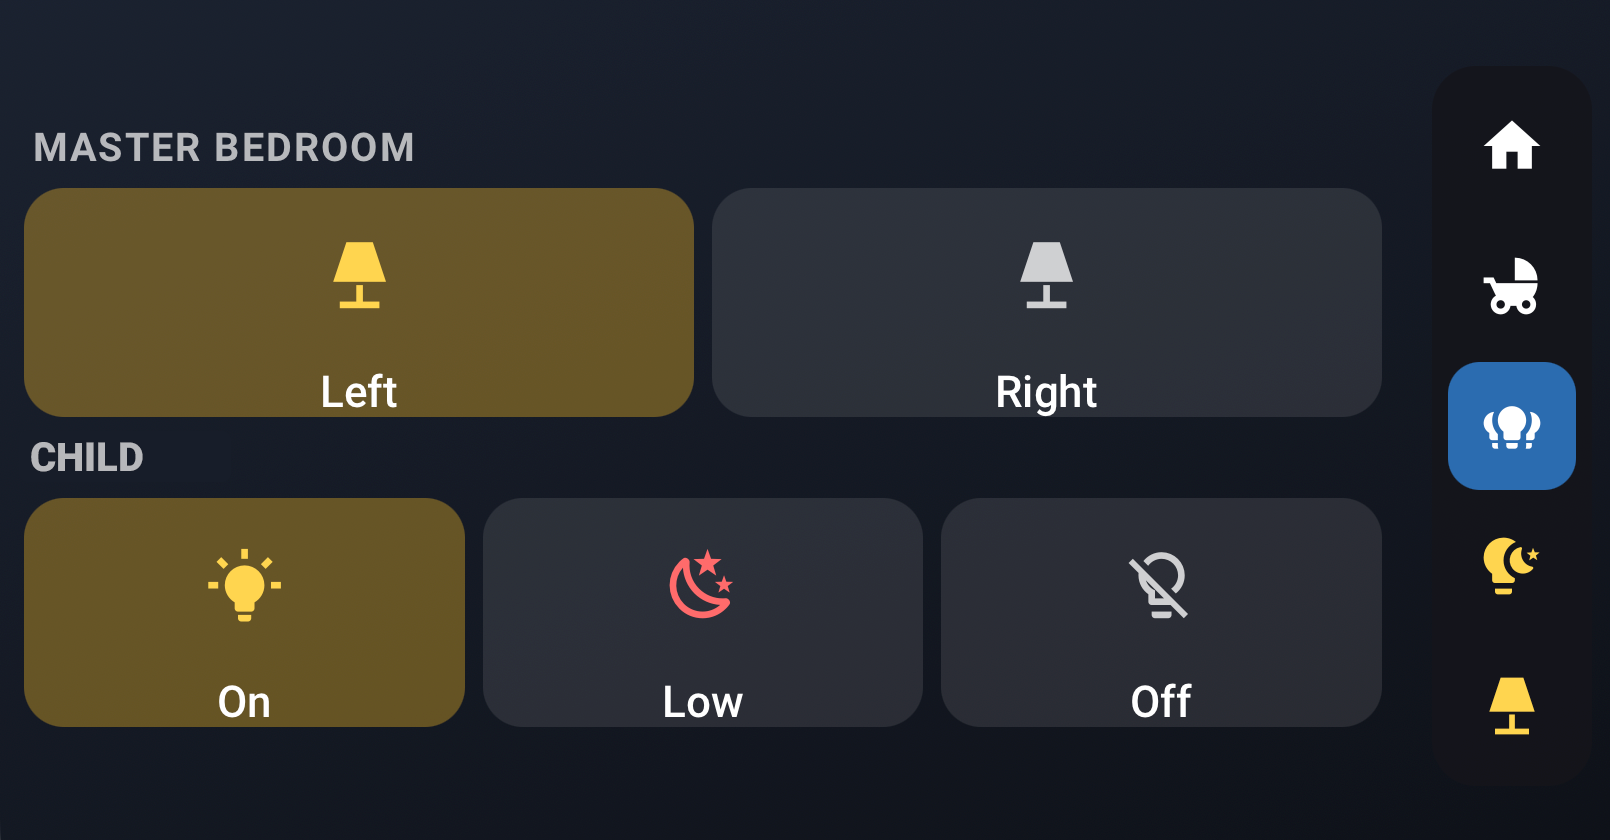
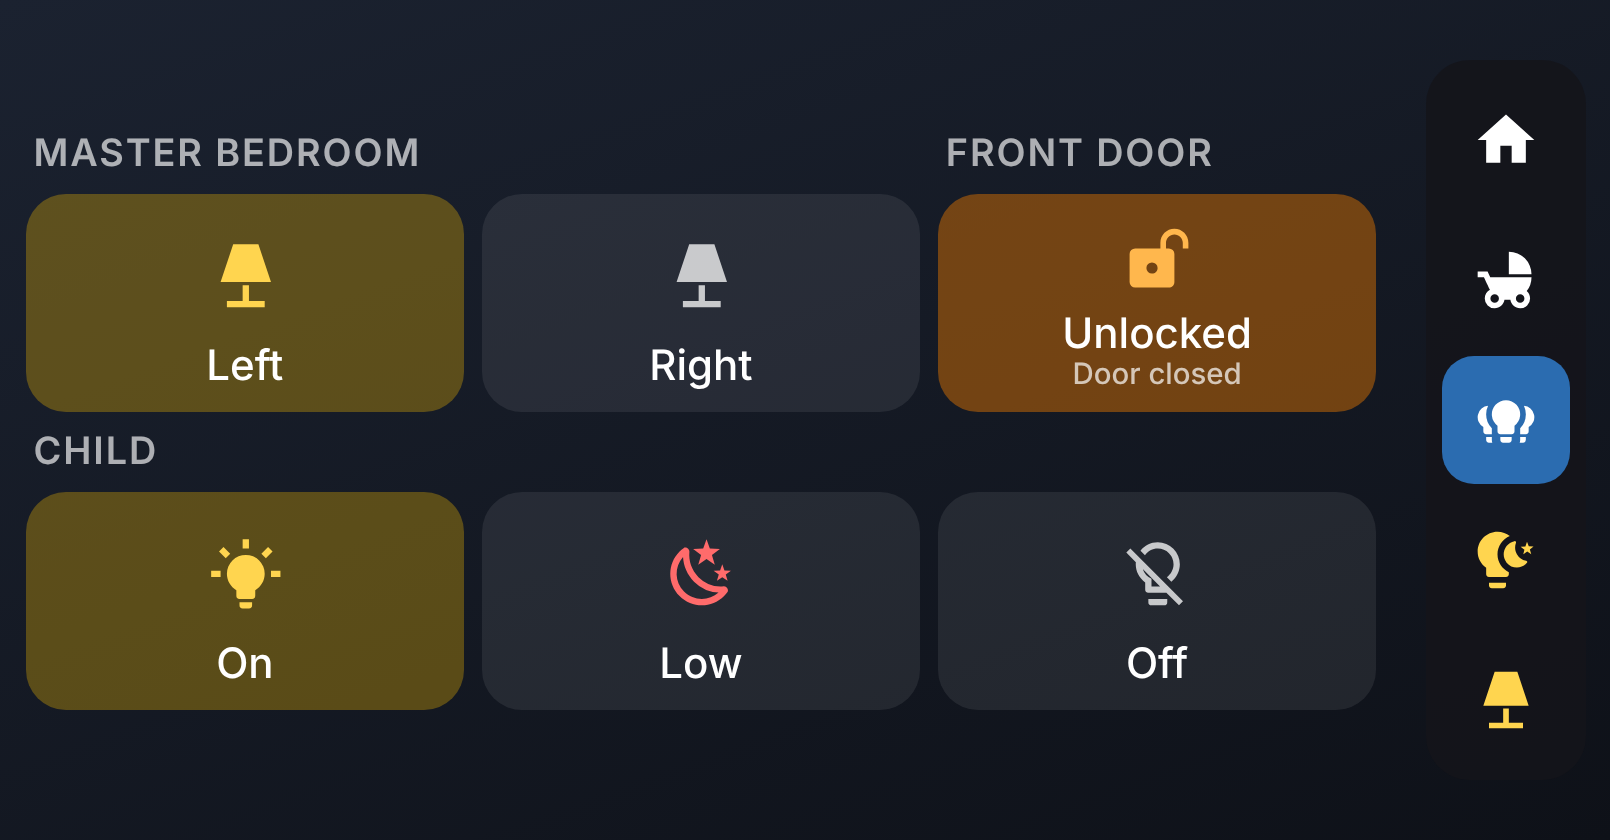
Add front door lock tile and nightly auto-lock
- Lights view: Front Door tile showing locked/unlocked and door
  open/closed; tap locks only if the door is closed, long-press unlocks
  with confirmation
- scripts.yaml: front_door_lock_if_closed
- automations.yaml: nightly auto-lock with door-open check, offline
  wait, retries and phone notifications
- README: setup, placeholders, lessons learned; new Lights mockup image

Claude-Session: https://claude.ai/code/session_01MM7d34tyjh7BsyrcMWY1rG

diff --git a/README.md b/README.md
@@ -1,14 +1,14 @@
 # Echo Show 5 Bedside Controller for Home Assistant
 
-Turn a 2nd-gen Amazon Echo Show 5 into a bedside Home Assistant display: a big clock with the weather, one-tap light controls, and a baby monitor with sound from a UniFi Protect camera. It switches to a dim red night mode when the room goes dark.
+Turn a 2nd-gen Amazon Echo Show 5 into a bedside Home Assistant display: a big clock with the weather, one-tap light controls, a front-door lock status tile, and a baby monitor with sound from a UniFi Protect camera. It switches to a dim red night mode when the room goes dark.
 
 This project was inspired by [The Stock Pot's video](https://youtu.be/6p5wvVl957c), which showed the build and the enclosure. This repo is the Home Assistant code side: the dashboard, scripts and automations, plus the problems I hit and how I solved them.
 
-| Home | Baby (mockup) | Lights |
+| Home | Baby (mockup) | Lights (mockup) |
 |---|---|---|
-| ![Home view: clock, date and weather, with the navigation rail on the right](docs/home.png) | ![Baby view mockup: full-height camera feed with the Baby button highlighted](docs/baby.png) | ![Lights view: bedside lamp tiles and On / Low / Off for the child's room light](docs/lights.png) |
+| ![Home view: clock, date and weather, with the navigation rail on the right](docs/home.png) | ![Baby view mockup: full-height camera feed with the Baby button highlighted](docs/baby.png) | ![Lights view mockup: bedside lamp tiles, a Front Door lock tile, and On / Low / Off for the child's room light](docs/lights.png) |
 
-*The Baby view image is a mockup. The camera picture is an illustration of a camera feed.*
+*The Baby and Lights images are mockups rendered from the dashboard's styles. The camera picture is an illustration of a camera feed.*
 
 ## What you get
 
@@ -16,11 +16,13 @@ This project was inspired by [The Stock Pot's video](https://youtu.be/6p5wvVl957
 |---|---|
 | **Home** | Large clock, date and current weather over a background image |
 | **Baby** | Full-height live camera with audio; tap the video for the mute button |
-| **Lights** | Big tiles for the bedside lamps and On / Low (dim red) / Off for the child's room light |
+| **Lights** | Big tiles for the bedside lamps, a **Front Door** tile (locked/unlocked and door open/closed), and On / Low (dim red) / Off for the child's room light |
 
 A navigation rail on the right of every view has Home, Baby and Lights buttons, plus quick toggles for the child's room and bedroom lights.
 
 **Night mode.** When the Echo's light sensor reads 5 lux or less, every view switches to a dim red palette that won't light up the room.
+
+**Front door check from bed.** The Front Door tile shows whether the door is locked and whether it's open or closed: green when locked, amber when unlocked, red when the door is open. Tap to lock (it won't lock an open door); long-press to unlock, with a confirmation prompt. A companion automation locks the door every night and tells you if it couldn't.
 
 **The baby monitor stays open.** View Assist normally goes back to its default view after a timeout. An automation sends the Echo back to the camera while the monitor is "on".
 
@@ -64,6 +66,12 @@ Settings → Devices & services → Helpers → Create helper → **Toggle**
 
 The scripts and the "keep baby monitor open" automation use it.
 
+For the nightly auto-lock (optional), also create a **Date and/or time** helper set to **Time** only:
+
+- Name: `Front Door Auto-Lock Time`
+- Entity ID: `input_datetime.front_door_auto_lock_time`
+- Set it to your usual bedtime, for example 10:00 PM. You can change it any time.
+
 ### 2. Set up View Assist for the Echo
 
 If you haven't already, follow the [View Assist](https://dinki.github.io/View-Assist/) and [VACA](https://dinki.github.io/View-Assist/docs/viewassist-setup/display-devices/vaca) setup guides so the Echo shows up in Home Assistant. Install **both** the VACA app on the Echo **and** the VACA integration in Home Assistant.
@@ -88,6 +96,12 @@ Every entity ID in this repo is a placeholder. Search and replace them with your
 | `light.nursery` | Child's room light (rail toggle and On / Low / Off) |
 | `light.bedroom` | Main bedroom light (rail toggle) |
 | `light.bedside_left`, `light.bedside_right` | Bedside lamps |
+| `lock.front_door` | Front door lock |
+| `binary_sensor.front_door` | The lock's own door sensor (open/closed) |
+| `binary_sensor.front_door_contact` | A separate contact sensor on the same door |
+| `notify.mobile_app_phone_1`, `notify.mobile_app_phone_2` | Phones for auto-lock notifications |
+
+**About the door sensors.** The tile and the auto-lock treat the door as open if *either* sensor says open. I use both because my lock's built-in sensor and a separate contact sensor each drop out now and then. If you only have one, delete the `binary_sensor.front_door_contact` lines. A sensor that's offline counts as "not open", so a flaky sensor doesn't stop the door locking every night.
 
 **About the child's room light.** The **On** button sets a warm white (`color_temp_kelvin: 2700`) and **Low** sets dim red (`rgb_color: [255, 0, 0]`), so this needs a colour bulb. For a plain dimmable bulb, change those two buttons in the dashboard to use `brightness_pct` only.
 
@@ -103,10 +117,10 @@ The Home view's daytime background is `/view_assist/dashboard/background.jpg`, o
 
 ### 5. Add the scripts and automation
 
-- [`scripts.yaml`](scripts.yaml): `bedside_home`, `bedside_baby` and `bedside_lights`, used by the rail buttons
-- [`automations.yaml`](automations.yaml): keeps the baby monitor open
+- [`scripts.yaml`](scripts.yaml): `bedside_home`, `bedside_baby` and `bedside_lights`, used by the rail buttons, and `front_door_lock_if_closed`, used by the Front Door tile
+- [`automations.yaml`](automations.yaml): keeps the baby monitor open, and the optional **Front Door - Nightly Auto-Lock**
 
-**Keep the script IDs exactly as they are.** The rail buttons call `script.bedside_home`, `script.bedside_baby` and `script.bedside_lights`. If you create them in the script editor, Home Assistant builds the ID from the name you type, so open each one in YAML mode and check the ID matches. Otherwise the buttons do nothing.
+**Keep the script IDs exactly as they are.** The rail buttons call `script.bedside_home`, `script.bedside_baby` and `script.bedside_lights`, and the Front Door tile calls `script.front_door_lock_if_closed`. If you create them in the script editor, Home Assistant builds the ID from the name you type, so open each one in YAML mode and check the ID matches. Otherwise the buttons do nothing.
 
 ### 6. Recommended VACA settings
 
@@ -134,7 +148,8 @@ These make the Echo behave like an appliance: it boots straight into the dashboa
 ### Tweaks
 
 - **Night mode threshold:** night mode turns on at **5 lux** or less. To change it, edit the `lux <= 5` line in the `night_vars` template at the top of the dashboard.
-- **Section headings:** the Lights view's headings ("Master Bedroom" and "Child") are the `name:` values of the two `section_title` cards.
+- **Section headings:** the Lights view's headings ("Master Bedroom", "Front Door" and "Child") are the `name:` values of the `section_title` cards.
+- **No lock?** Delete the `dt` and `lk` cards from the Lights view and change the first two grid rows back to `"bt bt bt bt bt bt"` and `"l l l r r r"`.
 
 ## Lessons learned (the useful part)
 
@@ -173,6 +188,16 @@ cam:
   - max-width: 100%
   - justify-self: start
 ```
+
+### The nightly auto-lock: things that bit me
+
+The first idea was "lock the door at 10pm". It turned into a bit more than that:
+
+- **Don't lock an open door.** A smart lock will happily throw its bolt into thin air, and then the door won't close. Both the tile and the automation check the door sensors first; the automation waits up to 10 minutes for the door to close, and notifies you if it doesn't.
+- **The lock goes offline.** Mine dropped off the network many times a week. The automation waits a few minutes for it to come back, then tries again at midnight and 2am.
+- **"Locked" is a state, not a command.** It sends `lock.lock`, then waits for the lock to *report* locked, up to 3 tries, and tells you if it never does.
+- **Late-night trips outside.** If someone unlocks the door after bedtime (taking the bins out) and forgets, it relocks after 10 minutes.
+- **Unlocking from the bedside should be deliberate.** Tap only locks; unlocking needs a long-press and a confirmation.
 
 ### Wired Ethernet instead of Wi-Fi
 
